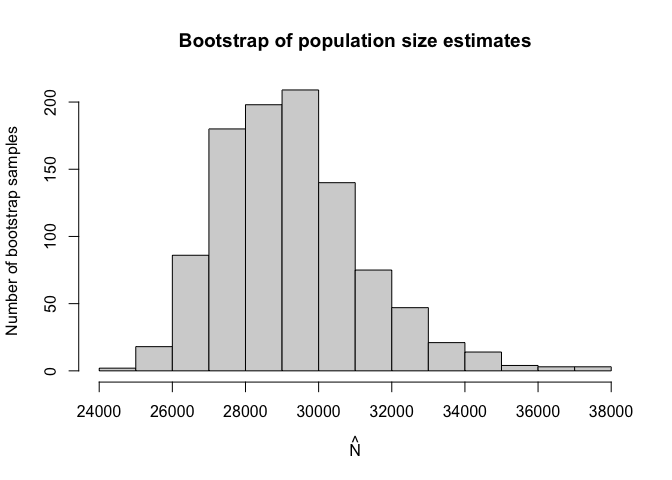
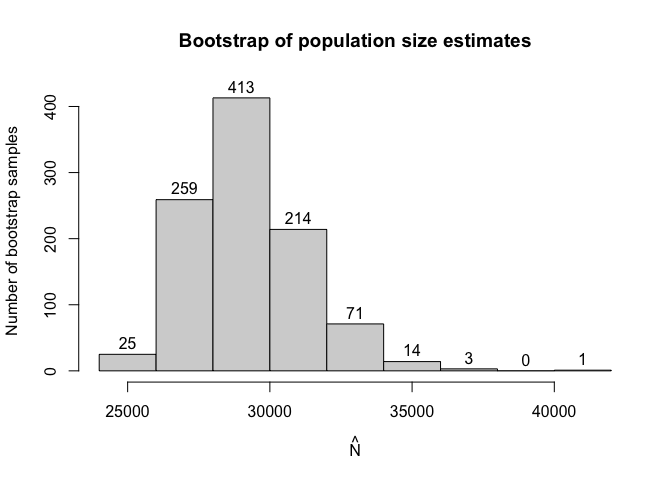
Update readme

diff --git a/README.md b/README.md
@@ -160,19 +160,53 @@ and 1 and non standard confidence levels
 
 ``` r
 set.seed(123)
-# TODO :: fixbootstrap
-# zotgeomBoot <- estimate_popsize(
-#     formula = TOTAL_SUB ~ .,
-#     data = farmsubmission,
-#     pop.var = "bootstrap",
-#     model = "zotgeom",
-#     method = "robust",
-#     control.pop.var = control.pop.var(B = 1000,
-#                                       alpha = .01)
-#   )
-# summary(zotgeomBoot)
+zotgeomBoot <- estimate_popsize(
+    formula = TOTAL_SUB ~ .,
+    data = farmsubmission,
+    pop.var = "bootstrap",
+    model = "zotgeom",
+    method = "robust",
+    control.pop.var = control.pop.var(B = 1000, alpha = .01)
+)
+summary(zotgeomBoot)
+#> estimate_popsize(formula = TOTAL_SUB ~ ., data = farmsubmission, 
+#>     model = "zotgeom", method = "robust", pop.var = "bootstrap", 
+#>     control.pop.var = control.pop.var(B = 1000, alpha = 0.01))
+#> 
+#> Pearson Residuals:
+#>      Min.   1st Qu.    Median      Mean   3rd Qu.      Max. 
+#> -0.952107 -0.727540 -0.426714  0.003655  0.322783 16.127909 
+#> 
+#> Coefficients:
+#>              Estimate Std. Error z value  P(>|z|)    
+#> (Intercept)    -2.608      0.298   -8.76  2.0e-18 ***
+#> log_size        0.585      0.022   26.47 2.2e-154 ***
+#> log_distance   -0.068      0.025   -2.66  7.7e-03  **
+#> C_TYPE          0.611      0.044   13.73  6.6e-43 ***
+#> -----------------------
+#> Signif. codes:  0 '****' 0.001 '***' 0.01 '**' 0.05 '*' 0.1 '.' 1 ' '
+#> 
+#> AIC: 19483.08
+#> BIC: 19509.67
+#> Deviance: 23179.43
+#> 
+#> Log-likelihood: -9737.539 on 5692 Degrees of freedom 
+#> Number of iterations: 7
+#> -----------------------
+#> Population size estimation results: 
+#> Point estimate 29087.96
+#> Observed proportion: 41.4% (N obs = 12036)
+#> Bootstrap Std. Error 1962.695
+#> 99% CI for the population size:
+#> lowerBound upperBound 
+#>   25228.32   35576.04 
+#> 99% CI for the share of observed population:
+#> lowerBound upperBound 
+#>   33.83176   47.70830
 ```
 
 ``` r
-#plot(zotgeomBoot, plotType = "bootHist")
+plot(zotgeomBoot, plotType = "bootHist", labels = TRUE, ylim = c(0, 425))
 ```
+
+<img src="man/figures/README-unnamed-chunk-4-1.png" width="100%" />
